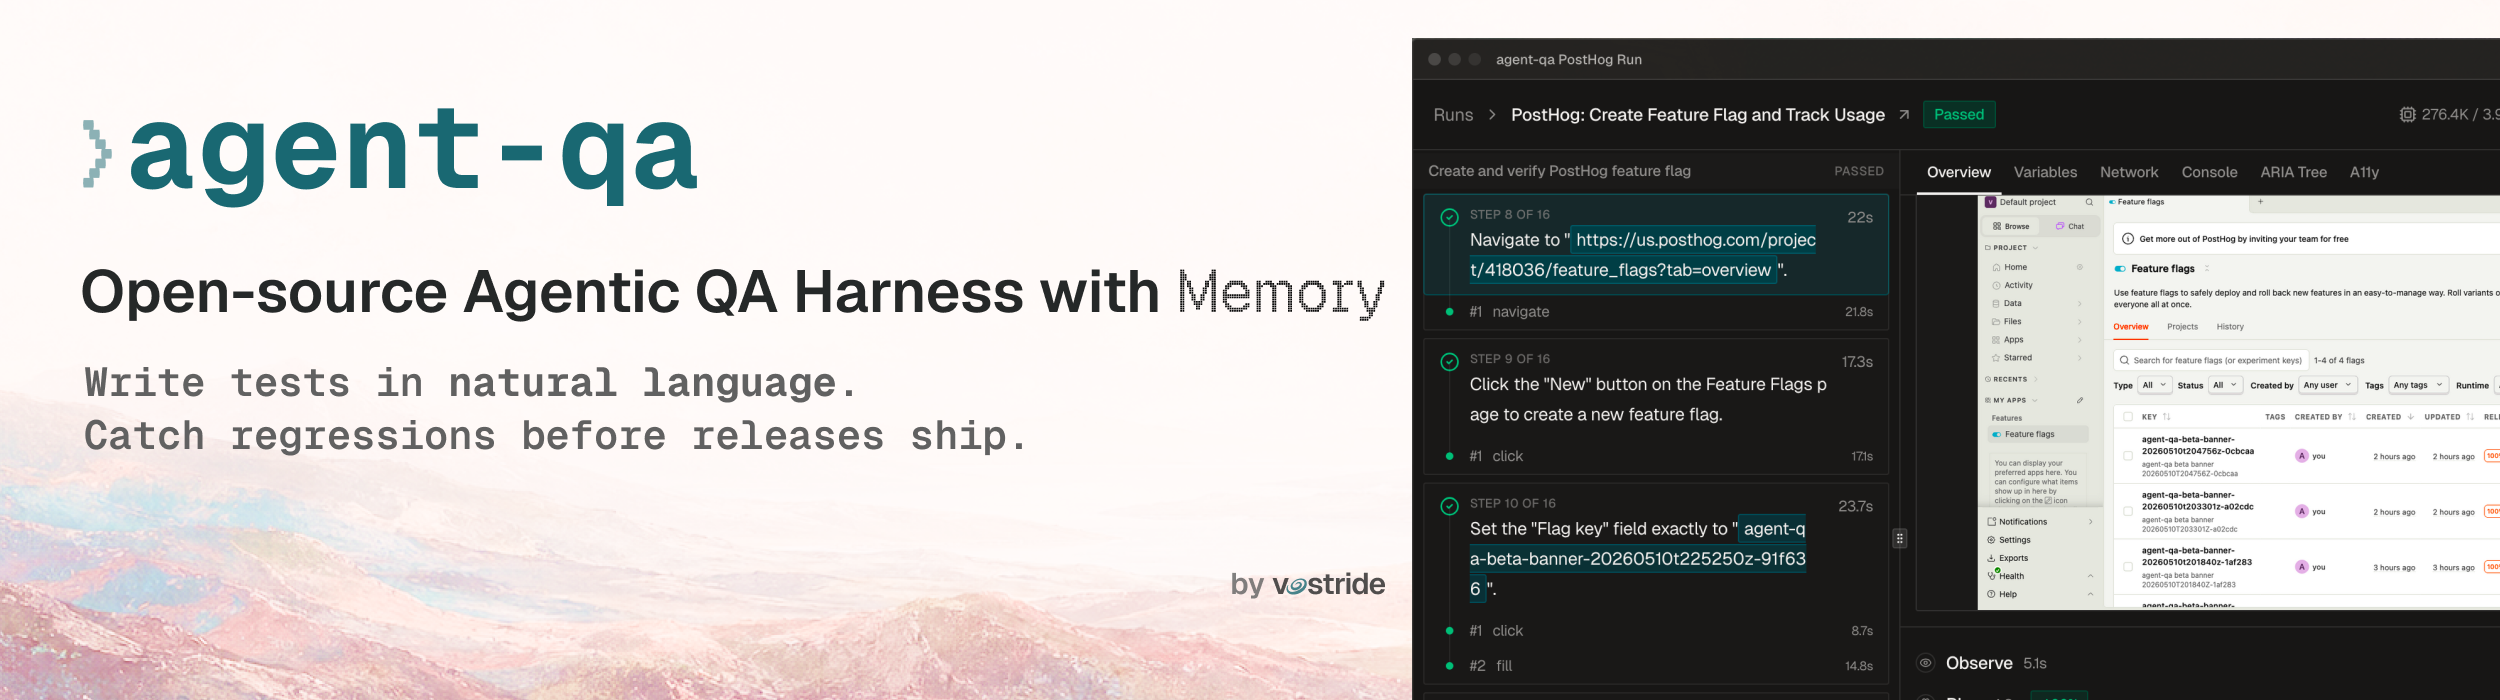
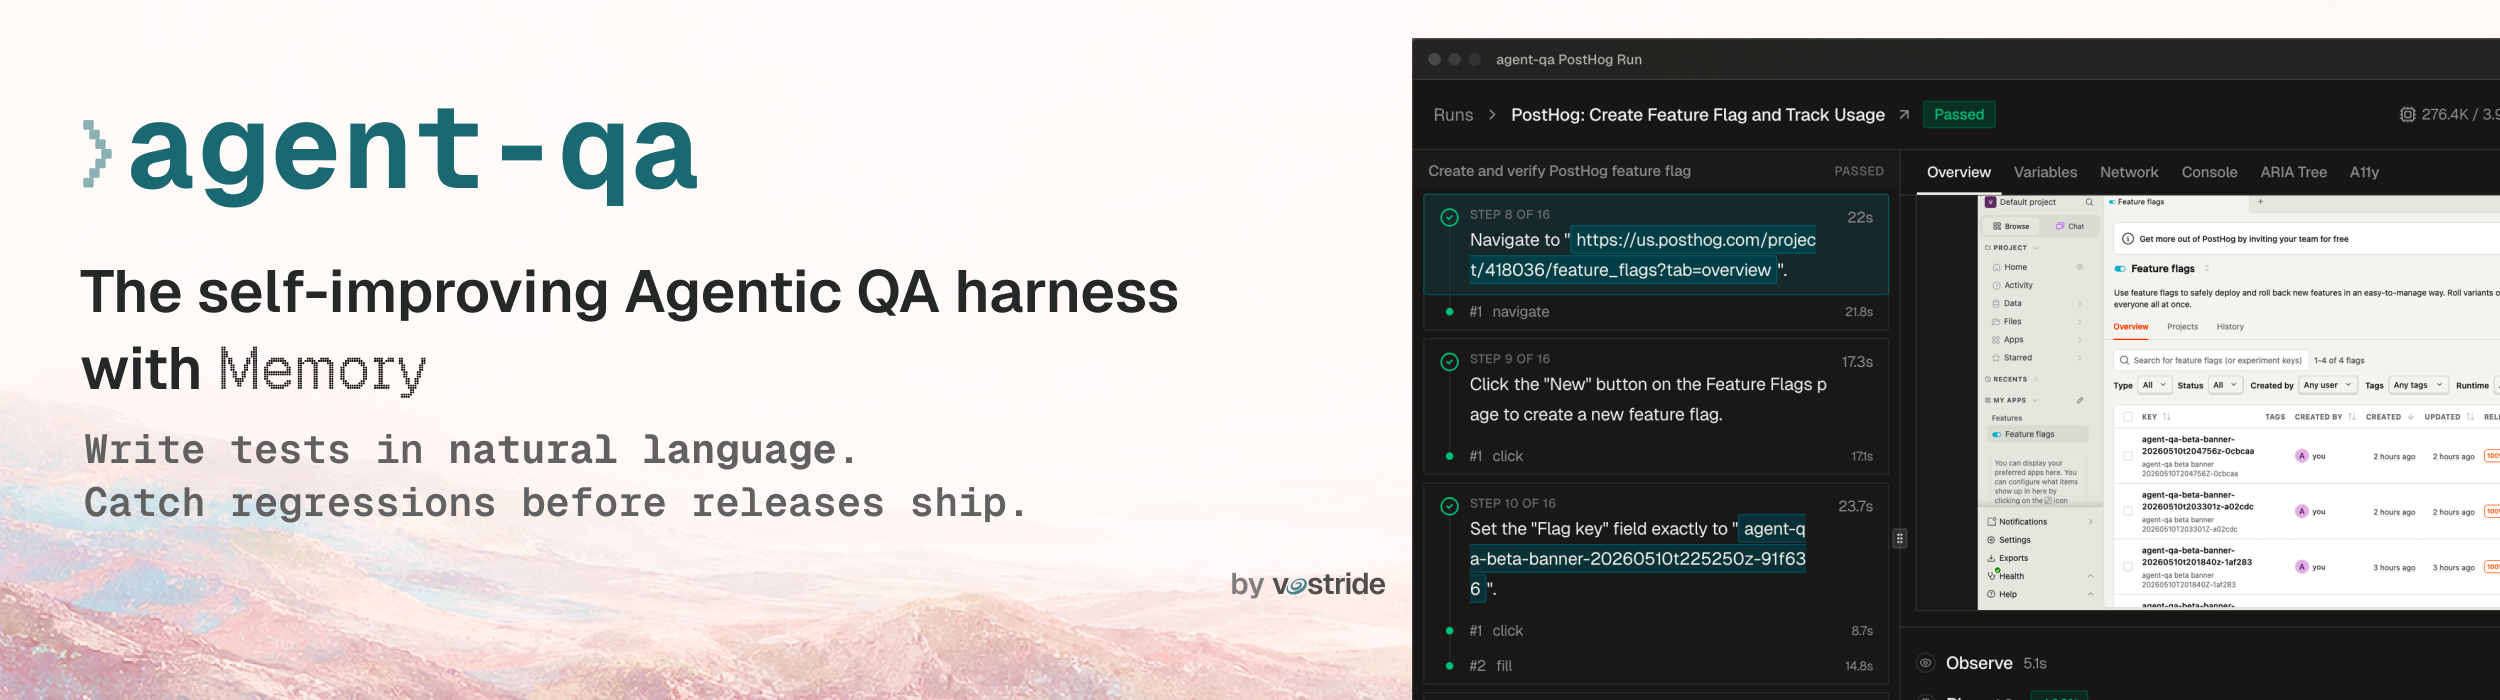
updates product tagline

diff --git a/packages/cli/src/cli.ts b/packages/cli/src/cli.ts
@@ -10,7 +10,7 @@ program.enablePositionalOptions()
 
 program
   .name('agent-qa')
-  .description('AI-powered testing framework')
+  .description('The self-improving Agentic QA harness with Memory')
   .version(VERSION)
 
 program

diff --git a/README.md b/README.md
@@ -15,20 +15,21 @@
 </div>
 
 ## agent-qa
-Open-source Agentic QA Harness with Memory
-Write tests in natural language. agent-qa runs them across web and mobile with execution memory, catching regressions before release.
+The self-improving Agentic QA harness with Memory
+
+Write tests in natural language for web and mobile. agent-qa learns from past runs, adapts to UI changes, and catches regressions before you ship.
 
 [Docs](https://vostride.com/docs/agent-qa) | [Quickstart](https://vostride.com/docs/agent-qa/quickstart)
 
 ## Features
 
-- **Write tests in natural language**: Define actions and assertions in human language while agents work from visible roles, labels, and screen state.
+- **Write tests in natural language for web and mobile**: Define actions and assertions in human language while agents work from visible roles, labels, and screen state.
 - **Self-healing test execution**: When any sub-action, such as click, fill, or select, fails, agent-qa re-observes the UI and tries a different path in the same run. Tests recover from UI drift and flaky interactions instead of failing on the first broken action.
-- **Evolves with every run**: With every test run, agent-qa builds execution memory from product, suite, and test observations, then adds that context to future runs. agent-qa also curates memory from steps that were healed during execution, helping future runs avoid the same mistake.
+- **Self-improves with Memory**: With every test run, agent-qa builds execution memory from product, suite, and test observations, then adds that context to future runs. agent-qa also curates memory from steps that were healed during execution, helping future runs avoid the same mistake.
 - **Built for humans and machines**: A polished dashboard and CLI for developers, plus MCP and skills for coding agents.
 - **Accelerate runs with smart Cache**: The action cache reuses validated plans across similar subsequent test runs, reducing planner work, token usage, and runtime overhead.
 - **Run sandboxed hooks during tests**: Run Node, Bun, Python, or Bash hooks in isolated Docker containers to set up environments, call APIs, seed fixtures, tear down state, or pass structured outputs back into the active test run.
-- **Review your QA like code**: Tests, configs, hooks, memory, and suite logic all live as version-controlled code, so every change can be diffed, reviewed, reused, and shared across teams.
+- **Open source, reviewable QA**: The harness is open source, and tests, configs, hooks, memory, and suite logic all live as version-controlled code, so every change can be diffed, reviewed, reused, and shared across teams.
 - **Bring your own LLM**: Run tests with the model of your choice via OpenAI- and Anthropic-compatible endpoints, Gemini, local or open-source models, and subscriptions like Codex and Claude Code.
 
 ## Quickstart

diff --git a/packages/cli/README.md b/packages/cli/README.md
@@ -2,20 +2,21 @@
 
 <!-- # agent-qa -->
 
-Open-source Agentic QA Harness with Memory
-Write tests in natural language. agent-qa runs them across web and mobile with execution memory, catching regressions before release.
+The self-improving Agentic QA harness with Memory
+
+Write tests in natural language for web and mobile. agent-qa learns from past runs, adapts to UI changes, and catches regressions before you ship.
 
 [Docs](https://vostride.com/docs/agent-qa) | [Quickstart](https://vostride.com/docs/agent-qa/quickstart)
 
 ## Features
 
-- **Write tests in natural language**: Define actions and assertions in human language while agents work from visible roles, labels, and screen state.
+- **Write tests in natural language for web and mobile**: Define actions and assertions in human language while agents work from visible roles, labels, and screen state.
 - **Self-healing test execution**: When any sub-action, such as click, fill, or select, fails, agent-qa re-observes the UI and tries a different path in the same run. Tests recover from UI drift and flaky interactions instead of failing on the first broken action.
-- **Evolves with every run**: With every test run, agent-qa builds execution memory from product, suite, and test observations, then adds that context to future runs. agent-qa also curates memory from steps that were healed during execution, helping future runs avoid the same mistake.
+- **Self-improves with Memory**: With every test run, agent-qa builds execution memory from product, suite, and test observations, then adds that context to future runs. agent-qa also curates memory from steps that were healed during execution, helping future runs avoid the same mistake.
 - **Built for humans and machines**: A polished dashboard and CLI for developers, plus MCP and skills for coding agents.
 - **Accelerate runs with smart Cache**: The action cache reuses validated plans across similar subsequent test runs, reducing planner work, token usage, and runtime overhead.
 - **Run sandboxed hooks during tests**: Run Node, Bun, Python, or Bash hooks in isolated Docker containers to set up environments, call APIs, seed fixtures, tear down state, or pass structured outputs back into the active test run.
-- **Review your QA like code**: Tests, configs, hooks, memory, and suite logic all live as version-controlled code, so every change can be diffed, reviewed, reused, and shared across teams.
+- **Open source, reviewable QA**: The harness is open source, and tests, configs, hooks, memory, and suite logic all live as version-controlled code, so every change can be diffed, reviewed, reused, and shared across teams.
 - **Bring your own LLM**: Run tests with the model of your choice via OpenAI- and Anthropic-compatible endpoints, Gemini, local or open-source models, and subscriptions like Codex and Claude Code.
 
 ## Quickstart
